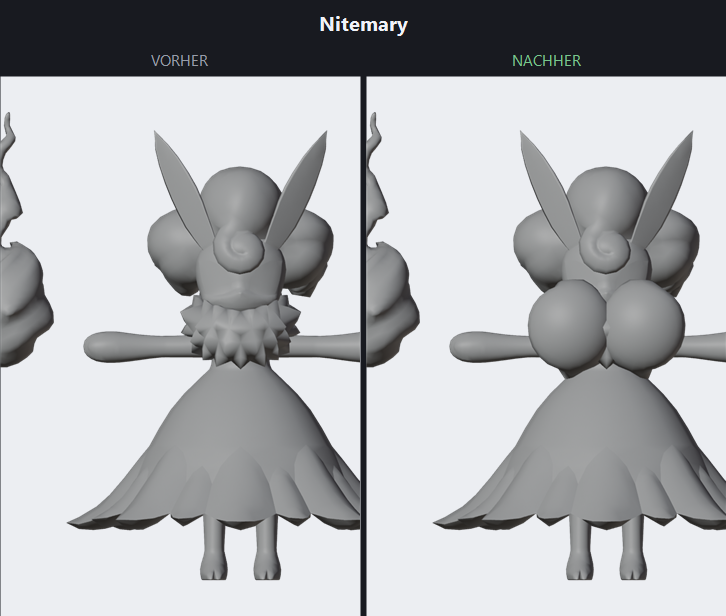
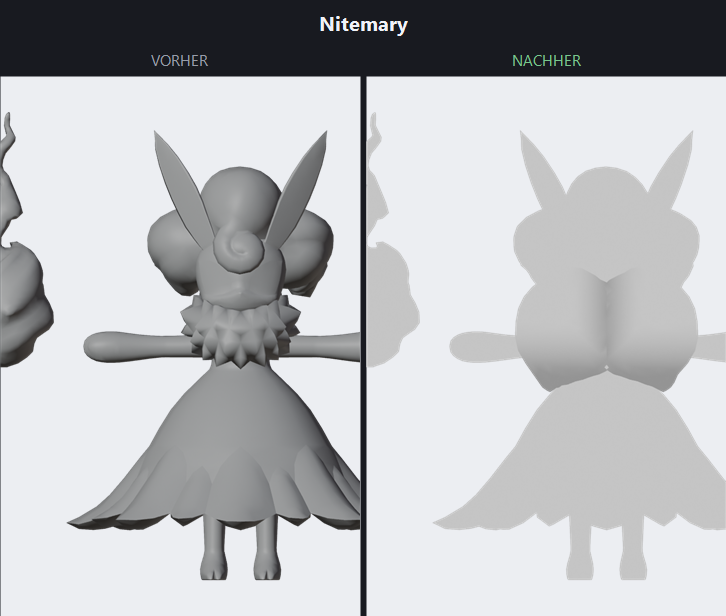
docs: Finaler Stand v2.0.0 -- kein Slider mehr noetig
README/INSTALLATION: Slider-Abschnitte entfernt, Installation ist nur noch Pak nach ~mods kopieren (kein UE4SS). Galerie mit gebackener Form neu gerendert.

Changed region(s): [[0.6061, 0.2159, 1.0, 0.9562], [0.4848, 0.1851, 0.5758, 0.6169]]

diff --git a/INSTALLATION.md b/INSTALLATION.md
@@ -1,13 +1,10 @@
 # Installationsanleitung
 
-Diese Anleitung führt von einer unveränderten Palworld-Installation (Steam)
-zum fertigen Mod mit Größen-Slider. Dauer: ca. 10 Minuten.
+Von einer unveränderten Palworld-Installation (Steam) zum fertigen Mod.
+Dauer: ca. 2 Minuten. **Seit v2.0.0 wird kein UE4SS und kein Slider mehr
+benötigt** — die Form ist fest ins Mesh gebacken.
 
-## Teil 1: Das Mesh-Pak (Pflicht)
-
-Das Pak enthält die veränderten Körper-Meshes. Ohne den Slider-Teil (unten)
-sind die Pals dauerhaft auf Referenzgröße — **mit** Slider steuerst du die
-Größe im Spiel.
+## Installation
 
 1. Lade `zzz_BustMod_P.pak` aus den [Releases](../../releases) herunter.
 2. Öffne deinen Palworld-Ordner. Bei Steam:
@@ -16,68 +13,34 @@ Größe im Spiel.
 4. Lege dort einen Ordner **`~mods`** an, falls er nicht existiert
    (die Tilde `~` gehört zum Namen).
 5. Kopiere die `zzz_BustMod_P.pak` in den `~mods`-Ordner.
-6. Palworld starten. Fertig — die Pals aus der Liste haben jetzt die neue Form.
+6. Palworld starten. Fertig.
 
 > **Wichtig:** Das Spiel lädt Paks nur beim Start. Nach dem Kopieren also
 > neu starten. Auf Servern sehen nur **du** die Änderung (clientseitig).
 
-## Teil 2: UE4SS + Slider (empfohlen)
-
-### UE4SS installieren (falls noch nicht vorhanden)
-
-1. Lade die neueste UE4SS-Version von
-   [docs.ue4ss.com](https://docs.ue4ss.com/) herunter
-   (Datei `UE4SS_v…zip` bzw. `zDEV-UE4SS…zip`).
-2. Entpacke den Inhalt nach `Palworld\Pal\Binaries\Win64\`
-   (dort liegt die `Palworld-Win64-Shipping.exe`).
-   Danach sollte es u. a. `Win64\ue4ss\` und eine `dwmapi.dll` geben.
-
-### BustSliderMod installieren
-
-1. Lade `BustSliderMod.zip` aus den [Releases](../../releases) und entpacke
-   den Ordner `BustSliderMod` nach
-   `Palworld\Pal\Binaries\Win64\ue4ss\Mods\`.
-   Struktur danach: `…\ue4ss\Mods\BustSliderMod\Scripts\main.lua`
-2. Öffne `…\ue4ss\Mods\mods.txt` mit einem Texteditor und ergänze
-   **oberhalb** des Keybinds-Blocks die Zeile:
-
-   ```
-   BustSliderMod : 1
-   ```
-
-3. Spiel starten.
-
-### Bedienung
-
-| Taste | Wirkung |
-|---|---|
-| **F7** | größer (+0.1) |
-| **F6** | kleiner (−0.1) |
-| **F8** | aktuellen Wert ins UE4SS-Log schreiben |
-
-- Bereich: **0.0** (Original-Optik) bis **1.5** (über Referenzgröße hinaus)
-- Der Wert wird in `ue4ss\Mods\BustSliderMod\bust_value.txt` gespeichert und
-  überlebt Neustarts. Er wirkt automatisch auch auf frisch gespawnte Pals
-  (mit wenigen Sekunden Verzögerung).
-- Standardwert beim ersten Start: **1.0**
-
 ## Deinstallation
 
-| Was | Wie |
-|---|---|
-| Nur Mod-Optik aus | Im Spiel F6 bis 0.0 drücken |
-| Mesh-Pak entfernen | `~mods\zzz_BustMod_P.pak` löschen |
-| Slider entfernen | `BustSliderMod`-Ordner löschen, Zeile aus `mods.txt` entfernen |
-| UE4SS komplett entfernen | `ue4ss`-Ordner und `dwmapi.dll` aus `Win64\` löschen |
+`zzz_BustMod_P.pak` aus `~mods` löschen. Fertig — alles ist wieder original.
+
+## Hinweis zum früheren Slider
+
+Bis v1.5.0 steckte die Vergrößerung als *Morph Target* im Mesh und wurde von
+einem UE4SS-Lua-Mod (F6/F7) gesteuert. Das hat sich als fehleranfällig
+erwiesen: Je nach Slider-Zustand waren die Brüste überzogen verzerrt oder gar
+nicht sichtbar. Seit v2.0.0 ist die Form **fest gebacken** und damit immer
+korrekt. Falls du noch den alten `BustSliderMod` installiert hast, kannst du
+ihn entfernen (Ordner löschen und Zeile aus `ue4ss\Mods\mods.txt` streichen) —
+er tut nichts mehr.
+
+Die Größe lässt sich weiterhin **beim Selbstbauen** pro Pal einstellen, siehe
+`data/pal_overrides.json` und den Abschnitt „Selbst bauen" in der
+[README](README.md).
 
 ## Problembehandlung
 
 - **Pals sehen unverändert aus:** Liegt die Pak wirklich in
-  `Pal\Content\Paks\~mods\`? Spiel neu gestartet? Slider-Wert evtl. auf 0?
-- **Slider reagiert nicht:** Steht `BustSliderMod : 1` in der `mods.txt`?
-  Liegt `main.lua` unter `BustSliderMod\Scripts\`? UE4SS überhaupt aktiv
-  (beim Start erscheint kurz ein Konsolenfenster bzw. `UE4SS.log` wird
-  aktualisiert)?
-- **Nach einem Palworld-Update kaputt:** Größere Updates können die
-  Mesh-Formate ändern — dann muss das Pak neu gebaut werden
-  (siehe README, Abschnitt „Selbst bauen").
+  `Pal\Content\Paks\~mods\`? Spiel neu gestartet?
+- **Nach einem Palworld-Update kaputt:** Größere Updates können Meshes oder
+  das Skelett ändern — dann muss das Pak neu gebaut werden (siehe README,
+  Abschnitt „Selbst bauen"). Das ist eine bekannte Stolperfalle bei
+  Mesh-Mods.

diff --git a/README.md b/README.md
@@ -18,13 +18,15 @@ deinstallierbar.
   Icelyn, Katress (+Ignis), Lapure, Lovander, Lullu, Lunaris, Lyleen (+Noct),
   Nitemary (+Botan), Nyafia, Petallia (+Ignis), Prunelia, Sekhmet, Selyne,
   Splatterina
-- **Größen-Slider im Spiel** (0.0–1.5) über ein UE4SS-Lua-Mod:
-  Die Vergrößerung steckt als *Morph Target* im Mesh — bei Wert 0 sieht alles
-  aus wie im Original-Spiel
-- **Eigens generierte Geometrie**: Seit v1.2.0 werden echte, glatte
-  Teardrop-Brüste als neue Geometrie erzeugt und ins Mesh integriert
-  (mit übernommenen Skinning-Gewichten, UVs und Material) — statt den
-  vorhandenen Brustkorb nur zu verformen
+- **Eigens generierte Geometrie**: Echte, runde Brüste werden als neue
+  Geometrie erzeugt und ins Mesh integriert (mit übernommenen
+  Skinning-Gewichten, UVs und Material) — statt den vorhandenen Brustkorb
+  nur zu verformen
+- **Fest ins Mesh gebacken** (seit v2.0.0): keine Morph-Targets, kein Slider
+  mehr nötig. Die Form ist immer sichtbar und kann nicht mehr durch einen
+  falschen Slider-Zustand verzerrt oder unsichtbar werden — das war zuvor
+  die häufigste Fehlerquelle. Größe pro Pal über
+  [`data/pal_overrides.json`](data/pal_overrides.json) beim Selbstbauen
 - **Original-Animationen, -Texturen und -Materialien** bleiben vollständig
   erhalten (Referenz-Skelett wird beim Bauen bit-genau gegen das Original
   verifiziert)
@@ -40,11 +42,7 @@ mit UE4SS-Einrichtung. Kurzfassung:
 
 1. `zzz_BustMod_P.pak` (aus den [Releases](../../releases)) nach
    `Palworld\Pal\Content\Paks\~mods\` kopieren (Ordner ggf. anlegen)
-2. Für den Slider: [UE4SS](https://docs.ue4ss.com/) installieren und den
-   Ordner `BustSliderMod` aus dem Release nach
-   `Palworld\Pal\Binaries\Win64\ue4ss\Mods\` kopieren, dann in der
-   `Mods\mods.txt` die Zeile `BustSliderMod : 1` ergänzen
-3. Spiel starten — **F7** größer, **F6** kleiner, Wert wird gespeichert
+2. Spiel starten — fertig. **Kein UE4SS und kein Slider nötig.**
 
 Deinstallation: die `.pak` aus `~mods` löschen, fertig.
 
@@ -218,11 +216,8 @@ und `scripts/run_batch.ps1`.
 
 1. Download `zzz_BustMod_P.pak` from [Releases](../../releases) and drop it
    into `Palworld\Pal\Content\Paks\~mods\` (create the folder if needed).
-2. Optional size slider: install [UE4SS](https://docs.ue4ss.com/), copy the
-   `BustSliderMod` folder into `Palworld\Pal\Binaries\Win64\ue4ss\Mods\`,
-   add `BustSliderMod : 1` to `Mods\mods.txt`.
-3. In game: **F7** = bigger, **F6** = smaller (0.0–1.5, persisted).
-   At 0.0 everything looks vanilla. Uninstall = delete the pak. Client-side only.
+2. Start the game — done. **No UE4SS, no slider needed** (the shape is baked
+   into the mesh since v2.0.0). Uninstall = delete the pak. Client-side only.
 
 ## Disclaimer
 
